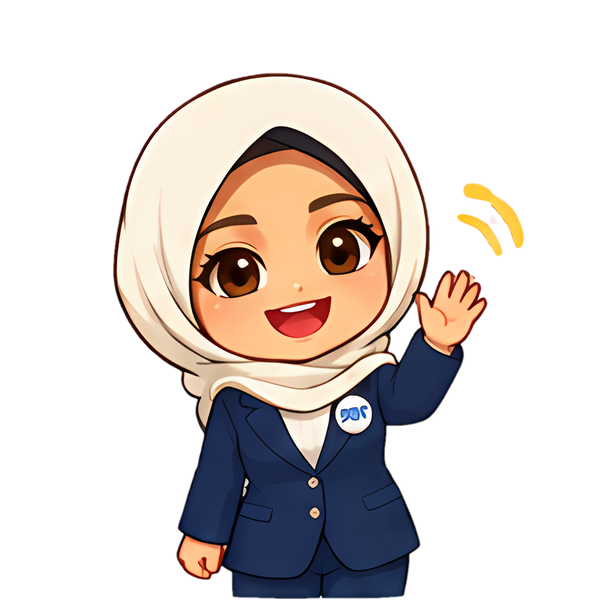
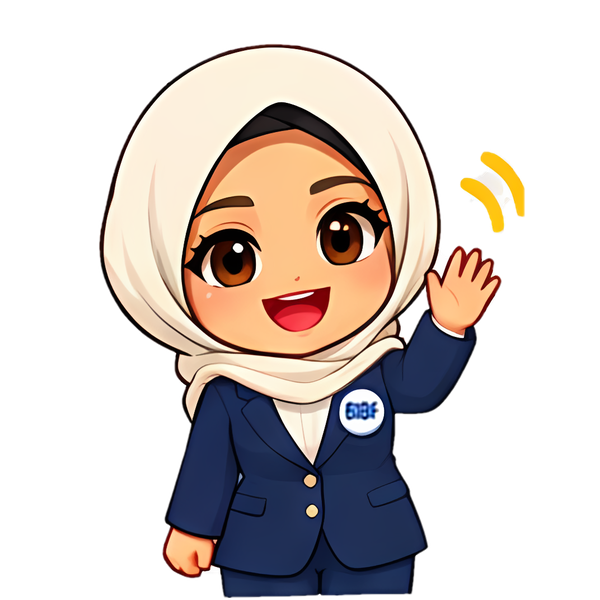
Mini Noora: new sprite sheet, worked steps for a real question; forum line rewritten
- public/noora: re-cut from the second sprite sheet (clearer BIBF badge; the
  badge's letters are kept as the sheet has them)
- Mini Noora's demo question is now a photo of a distribution-theory problem
  (the Laplace distribution) with "How do I find the MGF?". She answers with
  the working in three numbered steps (split at 0, integrate each piece, add
  the fractions), the highlighted result, and "Where to look": ST2133
  chapter 2, its lesson on the exponential distribution and the table of
  continuous distributions in the library
- Formula.jsx: integrals with limits, tall brackets, superscripts, and a
  Steps component; fraction rules now span the whole fraction
- forum: the "acting weird today" thread no longer says people keep smiling
  at the author

Claude-Session: https://claude.ai/code/session_01CLu5qjUQSjwPJjZmg67R7E

Changed region(s): [[0.15, 0.06, 0.9, 1.0], [0.6, 0.93, 0.63, 0.96], [0.42, 0.93, 0.45, 0.96]]

diff --git a/src/features/noora/brain.js b/src/features/noora/brain.js
@@ -2,10 +2,11 @@
 // module list (src/data/modules.js: every module, chapter and lesson) and calendar, and answers with
 // where to look. Everything here is a pure function of its arguments: no network, no storage, no React.
 //
-//   answer({ text, attachments, year, now }) → { mood, text, formula?, refs, suggestions? }
+//   answer({ text, attachments, year, now }) → { mood, text, formula?, steps?, refs, suggestions? }
 //     mood         how she says it: 'happy' | 'laughing' | 'angry' | 'sad' | 'wave' | 'neutral'
 //     text         one or two short sentences
 //     formula      { say, line, note? }: a formula as plain data, set as real maths by Formula.jsx
+//     steps        [{ label, line, say, result? }]: a worked solution, one numbered card per step
 //     refs         [{ code, label, to }]: the "Where to look" links (`to` is a route in the app)
 //     suggestions  questions to offer as chips
 import { MODULES, getModuleStats } from '../../data/modules.js';
@@ -191,6 +192,7 @@ function topicRefs(topics) {
 // ── Formulas (plain data: strings are set upright, v() is a variable in italics) ──────────────────
 const v = (name) => ({ v: name });
 const sub = (name, ...below) => ({ v: name, sub: below });
+const pow = (name, ...above) => ({ v: name, sup: above });
 const frac = (top, bottom) => ({ top, bottom });
 const n = v('n');
 
@@ -200,13 +202,38 @@ const REDUCTION_FORMULA = {
   note: ['so ', sub('I', '2'), ' = π/4 and ', sub('I', '3'), ' = 2/3'],
 };
 
+// The moment generating function of the Laplace distribution with density k·e^(−λ|x|), worked in three steps.
+// (int(lower, upper) is an integral sign with its limits, big() a tall bracket.)
+const int = (lower, upper) => ({ int: [lower, upper] });
+const big = (bracket) => ({ big: bracket });
+const half = frac(['λ'], ['2']);
+const mgf = [sub('M', v('X')), '(', v('t'), ')'];
+const LAPLACE_MGF_STEPS = [
+  {
+    label: ['With ', v('k'), ' = λ/2 from (a), split at ', v('x'), ' = 0'],
+    say: 'M X of t equals lambda over 2, times the integral from minus infinity to 0 of e to the lambda plus t, x, plus the integral from 0 to infinity of e to the minus lambda minus t, x.',
+    line: [...mgf, ' = ', half, big('['), int('−∞', '0'), pow('e', '(λ+', v('t'), ')', v('x')), ' ', v('dx'), ' + ', int('0', '∞'), pow('e', '−(λ−', v('t'), ')', v('x')), ' ', v('dx'), big(']')],
+  },
+  {
+    label: ['Integrate each piece, for |', v('t'), '| < λ'],
+    say: 'That equals lambda over 2, times 1 over lambda plus t, plus 1 over lambda minus t.',
+    line: ['= ', half, big('['), frac(['1'], ['λ + ', v('t')]), ' + ', frac(['1'], ['λ − ', v('t')]), big(']')],
+  },
+  {
+    label: ['Add the two fractions'],
+    say: 'So M X of t equals lambda squared over lambda squared minus t squared.',
+    line: [...mgf, ' = ', frac([pow('λ', '2')], [pow('λ', '2'), ' − ', pow('t', '2')])],
+    result: true,
+  },
+];
+
 const BY_PARTS_FORMULA = {
   say: 'The integral of u d v equals u v, minus the integral of v d u.',
   line: ['∫ ', v('u'), ' d', v('v'), ' = ', v('u'), v('v'), ' − ∫ ', v('v'), ' d', v('u')],
 };
 
 // ── Answers ───────────────────────────────────────────────────────────────────────────────────────
-const SUGGESTIONS = ['Where is integration by parts?', 'What’s in ST2133?', 'When is my next exam?', 'What is this, am I cooked? 💀'];
+const SUGGESTIONS = ['How do I find the MGF?', 'Where is integration by parts?', 'What’s in ST2133?', 'When is my next exam?'];
 const TRY_INSTEAD = ['Where is hypothesis testing?', 'What’s in ST2133?', 'When is my next exam?'];
 
 const firstName = () => String(CURRENT_USER.name || '').split(' ')[0] || 'there';
@@ -236,7 +263,29 @@ function findIntegration() {
   return { m, chapter, refs: refs.filter(Boolean) };
 }
 
-/** The question from the launch film: a photo of a reduction formula, "am I cooked?". */
+/**
+ * The question from the launch film: a photo of a problem on the Laplace distribution, and "How do I find
+ * the MGF?". The places are looked up by name (the chapter on univariate distributions in ST2133 and its
+ * lesson on the exponential distribution), plus the table of continuous distributions in the library.
+ */
+function aboutTheMgf() {
+  const m = INDEX.find((x) => x.id === 'advanced-stats-distribution');
+  const chapter = m && m.chapters.find((c) => /univariate/i.test(c.title));
+  const exponential = chapter && chapter.lessons.find((l) => /exponential distribution/i.test(l.title));
+  const refs = [
+    chapter ? chapterRef(m, chapter) : m && moduleRef(m),
+    exponential && lessonRef(chapter, exponential, 'The exponential distribution'),
+    { code: 'Library', label: 'Common continuous distributions', to: '/library/st2133-common-continuous-distributions' },
+  ];
+  return {
+    mood: 'happy',
+    text: 'Here’s how, step by step:',
+    steps: LAPLACE_MGF_STEPS,
+    refs: refs.filter(Boolean),
+  };
+}
+
+/** The forum's question ("What is this, am I cooked?"): a reduction formula. */
 function aboutTheReductionFormula() {
   return {
     mood: 'laughing',
@@ -348,7 +397,8 @@ function aboutFiles(named) {
 // What a message is asking for. They are tested in the order answer() lists them.
 const ASKS_TO_CHEAT =
   /\b(do|write|finish|complete|solve) (my|our|the|this|me)\b.*\b(homework|coursework|assignment|essay|problem set|exam|mock|paper)\b|\b(exam|mock|test|homework|coursework|assignment) answers\b|\banswers (to|for) (the |my )?(exam|mock|test|homework|coursework|assignment)\b|\bgive me (the )?answers\b|\bcheat(ing)?\b(?! ?sheet)/;
-const THE_FILM_QUESTION = /\bcooked\b|\bwhat\s?i?s this\b|\breduction formula/;
+const THE_FILM_QUESTION = /\bmgfs?\b|\bmoment generating\b|\blaplace\b/;
+const THE_FORUM_QUESTION = /\bcooked\b|\bwhat\s?i?s this\b|\breduction formula/;
 const BY_PARTS = /\bby parts\b|\bdi method\b/;
 const ABOUT_FILES = /\b(past|previous|old)\s+(exam\s+)?(papers?|exams?)\b|\bcheat\s?sheets?\b|\bstudy guides?\b|\bnotes\b/;
 const ABOUT_EXAMS = /\b(exams?|mocks?|finals)\b/;
@@ -382,7 +432,7 @@ function lookUp(text, said, year) {
  */
 export function answer({ text = '', attachments = [], year = null, now = Date.now() } = {}) {
   // A photo of a question: the one from the launch film.
-  if (attachments.some((a) => a.kind === 'image')) return aboutTheReductionFormula();
+  if (attachments.some((a) => a.kind === 'image')) return aboutTheMgf();
 
   const said = wordsOf(text).join(' ');
   const named = () => {
@@ -395,7 +445,8 @@ export function answer({ text = '', attachments = [], year = null, now = Date.no
     const refs = found ? found.refs.slice(0, 4) : [];
     return { mood: 'angry', text: `Nice try 😤 I won’t do it for you, but I’ll show you where it’s taught.${refs.length ? '' : ' Tell me the topic.'}`, refs };
   }
-  if (THE_FILM_QUESTION.test(said)) return aboutTheReductionFormula();
+  if (THE_FILM_QUESTION.test(said)) return aboutTheMgf();
+  if (THE_FORUM_QUESTION.test(said)) return aboutTheReductionFormula();
   if (BY_PARTS.test(said)) return aboutIntegrationByParts();
   if (SAYS_THANKS.test(said)) return { mood: 'laughing', text: 'Any time 😄 Good luck with the revision!', refs: [] };
   if (ABOUT_FILES.test(said)) return aboutFiles(named());

diff --git a/src/features/noora/ChatPanel.css b/src/features/noora/ChatPanel.css
@@ -168,6 +168,7 @@
 .nc-formula__note { margin-top: 4px; color: var(--ink-2); font-size: var(--fs-14); line-height: 1.4; }
 .nc-formula i { font-style: italic; }
 .nc-formula sub { margin-left: 0.04em; font-size: 0.62em; line-height: 0; vertical-align: -0.38em; }
+.nc-formula sup { margin-left: 0.04em; font-size: 0.62em; line-height: 0; vertical-align: 0.6em; }
 .nc-frac {
   display: inline-flex;
   flex-direction: column;
@@ -177,8 +178,40 @@
   line-height: 1.15;
   vertical-align: middle;
 }
-.nc-frac__top { padding: 0 0.34em 0.08em; border-bottom: 1.5px solid currentColor; }
-.nc-frac__bottom { padding: 0.08em 0.34em 0; }
+/* both halves are as wide as the wider one, so the rule spans the whole fraction */
+.nc-frac__top { align-self: stretch; padding: 0 0.34em 0.08em; border-bottom: 1.5px solid currentColor; }
+.nc-frac__bottom { align-self: stretch; padding: 0.08em 0.34em 0; }
+
+/* A worked solution: one pale card per step, a numbered disc and a line of words over a line of maths. */
+.nc-steps { display: grid; gap: 6px; margin: 10px 0 0; padding: 0; list-style: none; }
+.nc-step { padding: 8px 10px 9px; border-radius: var(--r-control); background: var(--surface-2); color: var(--ink); }
+.nc-step__label { display: flex; align-items: center; gap: 8px; color: var(--ink-2); font-size: var(--fs-12); font-weight: var(--fw-semibold); line-height: 1.35; }
+.nc-step__label b {
+  flex: 0 0 18px;
+  height: 18px;
+  border-radius: 50%;
+  display: grid;
+  place-items: center;
+  background: var(--cobalt);
+  color: var(--cobalt-ink);
+  font-family: var(--font-mono);
+  font-size: 11px;
+  line-height: 1;
+}
+.nc-step__label i { font-family: var(--font-serif); font-size: 1.12em; font-style: italic; font-weight: var(--fw-medium); }
+.nc-step__line { margin-top: 5px; overflow-x: auto; font-family: var(--font-serif); font-size: var(--fs-16); line-height: 1.5; text-align: center; white-space: nowrap; }
+.nc-step--result .nc-step__line { font-size: var(--fs-20); }
+.nc-step--result .nc-step__line > span { padding: 2px 8px; border-radius: var(--r-xs); background: var(--highlight); color: #0A1F44; }
+.nc-step i { font-style: italic; }
+.nc-step sub { margin-left: 0.04em; font-size: 0.62em; line-height: 0; vertical-align: -0.38em; }
+.nc-step sup { margin-left: 0.04em; font-size: 0.62em; line-height: 0; vertical-align: 0.6em; }
+.nc-step .nc-frac { font-size: 0.86em; }
+.nc-step--result .nc-frac__top { border-bottom-color: #0A1F44; }
+.nc-int { display: inline-flex; align-items: center; margin: 0 0.08em; vertical-align: middle; }
+.nc-int__sign { font-size: 1.7em; line-height: 1; font-weight: 300; }
+.nc-int__limits { display: inline-flex; flex-direction: column; gap: 0.9em; margin: 0 0.14em 0 0.02em; font-size: 0.58em; line-height: 1; text-align: left; }
+.nc-int__limits span:first-child { margin-left: 0.5em; }
+.nc-big { display: inline-block; margin: 0 0.06em; font-weight: 300; transform: scaleY(1.9); }
 
 /* "Where to look": each reference is a link with a code (mono, on cobalt) and a label. */
 .nc-refs { margin-top: 12px; padding-top: 10px; border-top: 1px solid var(--line); }

diff --git a/src/features/noora/Formula.jsx b/src/features/noora/Formula.jsx
@@ -1,12 +1,32 @@
 /**
  * A run of maths from the brain (plain data, see brain.js) set properly:
  *   'text'            upright, as written
- *   { v, sub? }       a variable in italics, with a real subscript
+ *   { v, sub?, sup? } a variable in italics, with a real subscript and/or superscript
  *   { top, bottom }   a stacked fraction
+ *   { int: [a, b] }   an integral sign with its limits
+ *   { big: '[' }      a tall bracket
  */
 function Maths({ parts }) {
   return parts.map((part, i) => {
     if (typeof part === 'string') return part;
+    if (part.int) {
+      return (
+        <span key={i} className="nc-int">
+          <span className="nc-int__sign">∫</span>
+          <span className="nc-int__limits">
+            <span>{part.int[1]}</span>
+            <span>{part.int[0]}</span>
+          </span>
+        </span>
+      );
+    }
+    if (part.big) {
+      return (
+        <span key={i} className="nc-big">
+          {part.big}
+        </span>
+      );
+    }
     if (part.top) {
       return (
         <span key={i} className="nc-frac">
@@ -27,6 +47,11 @@ function Maths({ parts }) {
             <Maths parts={part.sub} />
           </sub>
         ) : null}
+        {part.sup ? (
+          <sup>
+            <Maths parts={part.sup} />
+          </sup>
+        ) : null}
       </span>
     );
   });
@@ -45,5 +70,28 @@ export function Formula({ formula }) {
         </p>
       ) : null}
     </div>
+  );
+}
+
+/** A worked solution: one numbered card per step, a line of words over a line of maths; the last is the result. */
+export function Steps({ steps }) {
+  return (
+    <ol className="nc-steps" role="list">
+      {steps.map((step, i) => (
+        <li key={i} className={step.result ? 'nc-step nc-step--result' : 'nc-step'}>
+          <p className="nc-step__label">
+            <b aria-hidden="true">{i + 1}</b>
+            <span>
+              <Maths parts={step.label} />
+            </span>
+          </p>
+          <p className="nc-step__line" role="img" aria-label={step.say}>
+            <span aria-hidden="true">
+              <Maths parts={step.line} />
+            </span>
+          </p>
+        </li>
+      ))}
+    </ol>
   );
 }

diff --git a/src/features/noora/Messages.jsx b/src/features/noora/Messages.jsx
@@ -4,7 +4,7 @@ import { Link } from 'react-router-dom';
 import { cx } from '../../ui';
 import { FileChip, Shot } from './Attachment.jsx';
 import { Face } from './Face.jsx';
-import { Formula } from './Formula.jsx';
+import { Formula, Steps } from './Formula.jsx';
 
 /** "Where to look": links to the module, chapter or exact lesson. */
 function Refs({ refs, onFollow }) {
@@ -56,6 +56,7 @@ const NooraMessage = memo(function NooraMessage({ message, shown, isNew, suggest
             {typing ? <span className="nc-caret" aria-hidden="true" /> : null}
           </p>
           {!typing && message.formula ? <Formula formula={message.formula} /> : null}
+          {!typing && message.steps?.length ? <Steps steps={message.steps} /> : null}
           {!typing && message.refs?.length ? <Refs refs={message.refs} onFollow={onFollow} /> : null}
         </div>
         {suggest && message.suggestions?.length ? (

diff --git a/src/features/noora/useChat.js b/src/features/noora/useChat.js
@@ -31,7 +31,7 @@ function thinkingTime(text, attachments) {
  * @param year  the year the student is browsing (the brain uses it to break ties)
  * @param calm  reduced motion: replies appear whole instead of streaming
  * @returns {{ messages, pending, busy, send }}
- *   messages  [{ id, from: 'noora'|'me', text, attachments?, mood?, formula?, refs?, suggestions? }]
+ *   messages  [{ id, from: 'noora'|'me', text, attachments?, mood?, formula?, steps?, refs?, suggestions? }]
  *   busy      she is still answering; send() does nothing until she has finished
  *   send({ text, attachments }) → true if the message was taken
  */

diff --git a/src/features/noora/ChatPanel.jsx b/src/features/noora/ChatPanel.jsx
@@ -56,7 +56,8 @@ function spokenFor(messages, pending) {
   const last = messages[messages.length - 1];
   if (last.from !== 'noora') return '';
   const where = last.refs && last.refs.length ? ` Where to look: ${last.refs.map((r) => `${r.code}, ${r.label}`).join('; ')}.` : '';
-  return `${last.text}${last.formula ? ` ${last.formula.say}` : ''}${where}`;
+  const working = (last.steps || []).map((s) => s.say).join(' ');
+  return `${last.text}${last.formula ? ` ${last.formula.say}` : ''}${working ? ` ${working}` : ''}${where}`;
 }
 
 const carriesFiles = (e) => Array.from(e.dataTransfer?.types || []).includes('Files');

diff --git a/src/features/forum/data/threads.js b/src/features/forum/data/threads.js
@@ -688,7 +688,7 @@ export const SEED_THREADS = [
     ago: m(175),
     votes: 23,
     tags: [],
-    body: 'Is it just me, or is everyone in a suspiciously good mood today? People keep smiling at me in the corridor. What did I miss?',
+    body: 'Is it just me, or is everyone in a suspiciously good mood today? The group chats are quiet and nobody is complaining about anything. What did I miss?',
     replies: [
       { id: 'a', author: 'zainab-k', ago: m(152), votes: 15, body: 'Nothing to see here 🙂' },
       { id: 'b', author: 'ali-h', ago: m(141), votes: 12, body: 'Just enjoy the launch.' },
